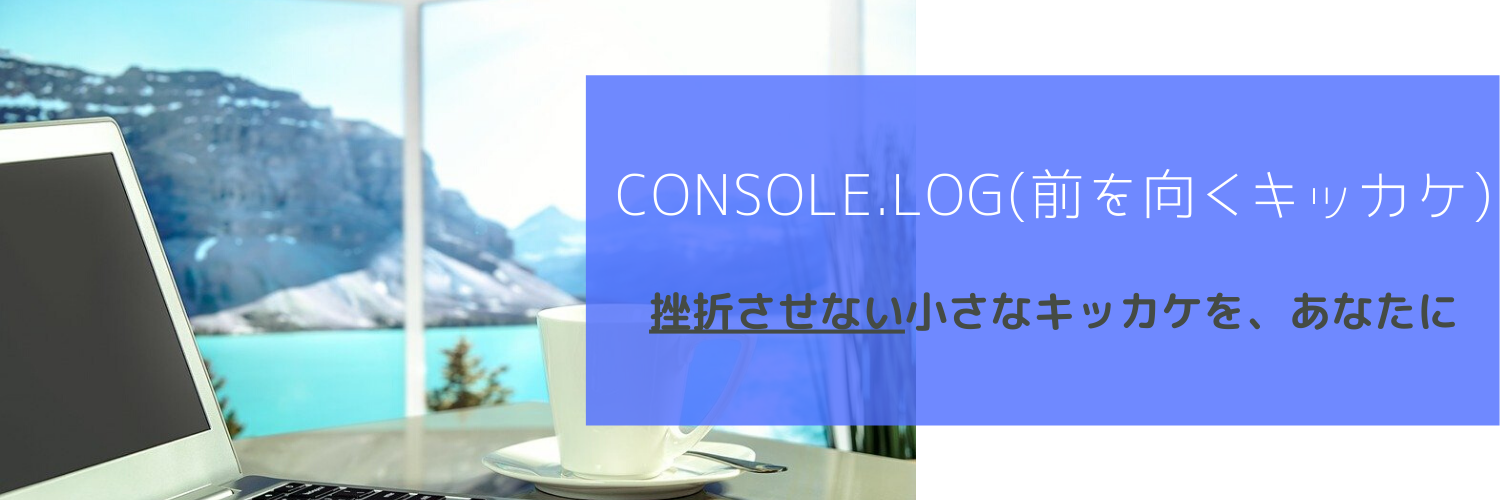
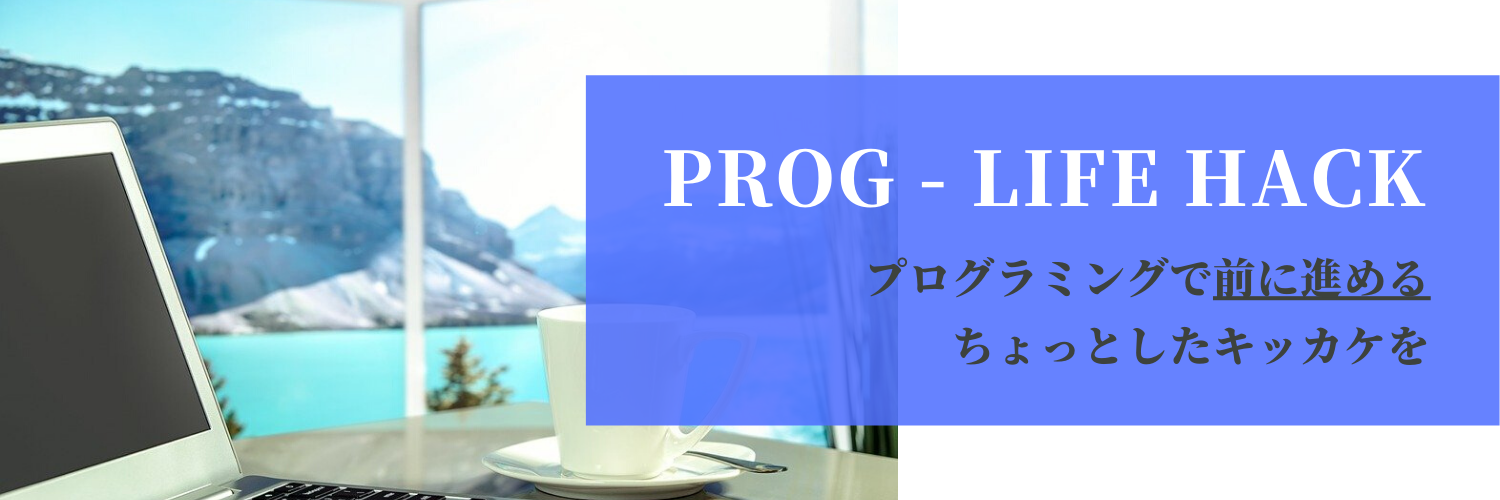
edit layout

Changed region(s): [[0.3987, 0.3, 1.0, 1.0]]

diff --git a/pages/index.vue b/pages/index.vue
@@ -1,6 +1,6 @@
 <template>
   <div>
-    <v-img v-bind:src="require('@/assets/images/header.png')" width="100%" max-width="100%" height="auto" max-height="400px"></v-img>
+    <v-img v-bind:src="require('@/assets/images/header.png')" class="top-img"></v-img>
     <v-container class="grey lighten-5">
       <v-row justify="center">
         <h1 class="main-title">新着記事</h1>
@@ -25,7 +25,7 @@
         </v-row>
         <v-row justify="center">
           <v-btn
-            class="ma-2"
+            class="button-style"
             x-large
             tile
             outlined
@@ -42,7 +42,7 @@
             <v-card color="primary" dark>
               <v-card-text>
                 Please stand by
-                <v-progress-linear indeterminate color="white" class="mb-0"></v-progress-linear>
+                <v-progress-linear indeterminate color="white"></v-progress-linear>
               </v-card-text>
             </v-card>
           </v-dialog>
@@ -55,7 +55,7 @@
       </v-row>
       <v-row>
         <v-col offset-sm="2" class="area">
-          <v-avatar class="mx-auto avater" size="250">
+          <v-avatar class="avater" size="250">
             <v-img
               :src="setPersonEyeCatch(person[0]).url"
               :alt="setPersonEyeCatch(person[0]).title"
@@ -66,13 +66,13 @@
           </v-avatar>
           <v-card class="intro sa sa--down">
             <v-card-title class="intro-title">{{ person[0].fields.title }}</v-card-title>
-            <v-card-text class="text--primary" style="padding-bottom:0; font-size:1.0em; line-height: 1.1em;">
+            <v-card-text class="text--primary cards">
               <div v-html="$md.render(person[0].fields.shortBio)"></div>
               <v-icon large color="dark">mdi-arrow-down-bold</v-icon>
             </v-card-text>
             <v-card-actions class="d-block">
               <v-btn
-                class="ma-2"
+                class="button-style"
                 tile
                 outlined
                 color="success"
@@ -105,13 +105,13 @@
           </v-avatar>
           <v-card class="intro2 sa sa--rl">
             <v-card-title class="intro-title">{{ purposePosts[0].fields.title }}</v-card-title>
-            <v-card-text class="text--primary" style="padding-bottom:0;  font-size:1.0em; line-height: 1.1em;">
+            <v-card-text class="text--primary cards">
               <div v-html="$md.render(purposePosts[0].fields.description)"></div>
               <v-icon large color="dark">mdi-arrow-down-bold</v-icon>
             </v-card-text>
             <v-card-actions class="d-block">
               <v-btn
-                class="ma-2"
+                class="button-style"
                 tile
                 outlined
                 color="success"
@@ -239,10 +239,27 @@ export default {
   margin-bottom: 30px;
 }
 
+.top-img {
+   width:"100%";
+   max-width:"100%";
+   height:"auto";
+   max-height:"400px";
+}
+
 .intro-title {
   display:block;
   font-weight: bold;
   font-size: 24px;
+}
+
+.button-style{
+  margin:8px;
+}
+
+.cards{
+  padding-bottom:0;
+  font-size:1.0em;
+  line-height: 1.1em;
 }
 
 ul {

diff --git a/components/form.vue b/components/form.vue
@@ -1,20 +1,22 @@
 
 <template>
   <div>
-    <v-card>
+    <v-card class="elevation-6 card-style">
       <v-container>
-        <h2>お問い合わせ</h2>
+        <h2>Contact</h2>
+        <p>何か気になることがありましたら<br>
+          お気軽にお問い合わせください
+        </p>
 
         <v-form
           ref="form"
-          v-model="contactFormValidation.valid"
           lazy-validation
           method="post"
           name="contact"
           data-netlify-honeypot="bot-field"
           netlify
         >
-          <input type="hidden" name="form-name" value="contact" />
+          <v-text-field v-show="false" v-model="contact" name="form-name" />
           <v-text-field
             v-model="contactForm.name"
             :rules="contactFormValidation.nameRules"
@@ -48,16 +50,6 @@
         </v-form>
       </v-container>
     </v-card>
-    <!--
-    <v-snackbar
-      v-model="snackBar.show"
-      :color="snackBar.color"
-      bottom
-      right
-      :timeout="6000"
-      class="font-weight-bold"
-    >{{snackBar.message}}</v-snackbar>
-    -->
   </div>
 </template>
 
@@ -85,41 +77,36 @@ export default {
       message: ""
     }
   })
-  /*
-  methods: {    
-    sendMail: function() {
-      if (this.$refs.form.validate()) {
-        this.contactForm.loading = true;
-        const mailer = functions.httpsCallable("sendMail");
-
-        mailer(this.contactForm)
-          .then(() => {
-            this.formReset();
-            this.showSnackBar(
-              "success",
-              "お問い合わせありがとうございます。送信完了しました"
-            );
-          })
-          .catch(err => {
-            this.showSnackBar(
-              "error",
-              "送信に失敗しました。時間をおいて再度お試しください"
-            );
-            console.log(err);
-          })
-          .finally(() => {
-            this.contactForm.loading = false;
-          });
-      }
-    },
-    showSnackBar: function(color, message) {
-      this.snackBar.message = message;
-      this.snackBar.color = color;
-      this.snackBar.show = true;
-    },
-    formReset: function() {
-      this.$refs.form.reset();
-    }
-  }*/
 };
 </script>
+
+<style scoped>
+.card-style{
+  text-align: center;
+
+}
+
+h2 {
+  position: relative;
+  display: inline-block;
+  padding: 0 55px;
+  margin: 8px;
+}
+
+h2:before, h2:after {
+  content: '';
+  position: absolute;
+  top: 50%;
+  display: inline-block;
+  width: 45px;
+  height: 1px;
+  background-color: black;
+}
+
+h2:before {
+  left:0;
+}
+h2:after {
+  right: 0;
+}
+</style>

diff --git a/nuxt.config.js b/nuxt.config.js
@@ -28,11 +28,11 @@ module.exports = {
     CTF_BLOG_POST_TYPE_ID: ctfConfig.CTF_BLOG_POST_TYPE_ID
   },
   head: {
-    title: "Shou's Programming Blog",
+    title: "Prog-LifeHack",
     meta: [
       { charset: "utf-8" },
       { name: "viewport", content: "width=device-width, initial-scale=1" },
-      { hid: "description", name: "description", content: "Nuxt.js project" }
+      { hid: "description", name: "description", content: "あなたのプログラミングを助ける、少しのキッカケ" }
     ],
     link: [{ rel: "icon", type: "image/x-icon", href: "/favicon.ico" }]
   },
@@ -86,13 +86,13 @@ module.exports = {
   ],
 
   manifest: {
-    name: 'Shou_Blog_Site',
+    name: 'Prog-LifeHack',
     lang: 'ja',
-    short_name: 'Shou_blog',
-    title: 'Shou_Blog',
-    'og:title': 'Shou_Blog',
-    description: 'プログラミングのノウハウを紹介するブログです',
-    'og:description': 'プログラミングのノウハウを紹介するブログです',
+    short_name: 'Prog-LifeHack',
+    title: 'Prog-LifeHack',
+    'og:title': 'Prog-LifeHack',
+    description: 'あなたのプログラミングを助ける、少しのキッカケ',
+    'og:description': 'あなたのプログラミングを助ける、少しのキッカケ',
     background_color: '#3F51B5',
     display: 'standalone',
   },

diff --git a/components/DefLayout.vue b/components/DefLayout.vue
@@ -50,8 +50,8 @@
         <v-dialog v-model="dialog" hide-overlay persistent width="300">
           <v-card color="primary" dark>
             <v-card-text>
-              Loading Now  . . .
-              <v-progress-linear indeterminate color="white" class="mb-0"></v-progress-linear>
+              Loading Now . . .
+              <v-progress-linear indeterminate color="white"></v-progress-linear>
             </v-card-text>
           </v-card>
         </v-dialog>
@@ -60,7 +60,7 @@
 
     <v-app-bar app color="indigo" dark>
       <v-app-bar-nav-icon @click.stop="drawer = !drawer" />
-      <v-toolbar-title>Shou's Programming Blog</v-toolbar-title>
+      <v-toolbar-title class="font-title">PROG - LIFEHACK</v-toolbar-title>
     </v-app-bar>
 
     <!--ページ本体-->
@@ -143,11 +143,10 @@ export default {
   background: #5bc8ac;
 }
 
-@media screen and (max-width: 600px) {
-  .Page-Btn {
-    width: 50px;
-    height: 50px;
-  }
+.font-title {
+  font-size: 30px;
+  font-family: Georgia, serif;
+  letter-spacing: 2px;
 }
 
 .Page-Btn-Icon {
@@ -157,5 +156,16 @@ export default {
 .up-icon {
   width: 100%;
   height: 100%;
+}
+
+@media screen and (max-width: 600px) {
+  .Page-Btn {
+    width: 50px;
+    height: 50px;
+  }
+
+  .font-title {
+    font-size: 16px;
+  }
 }
 </style>

diff --git a/pages/form.vue b/pages/form.vue
@@ -1,5 +1,5 @@
 <template>
-<formTemp style="width:60%;"></formTemp>
+  <formTemp class="form" style></formTemp>
 </template>
 <script>
 import formTemp from "~/components/form";
@@ -7,6 +7,19 @@ import formTemp from "~/components/form";
 export default {
   components: {
     formTemp
-  },
+  }
 };
 </script>
+
+<style lang="scss" scoped>
+.form {
+  width: 60%;
+  margin: 50px auto;
+}
+
+@media screen and (max-width: 600px) {
+  .form {
+    width: 90%;
+  }
+}
+</style>

diff --git a/pages/blog/_slug.vue b/pages/blog/_slug.vue
@@ -201,10 +201,10 @@ export default {
 @media screen and (max-width: 600px) {
   .copy {
     h2 {
-      font-size: 1.7rem;
+      font-size: 1.6rem;
     }
     p {
-      font-size: 1.5rem;
+      font-size: 1.3rem;
     }
     img {
       margin: 0;
